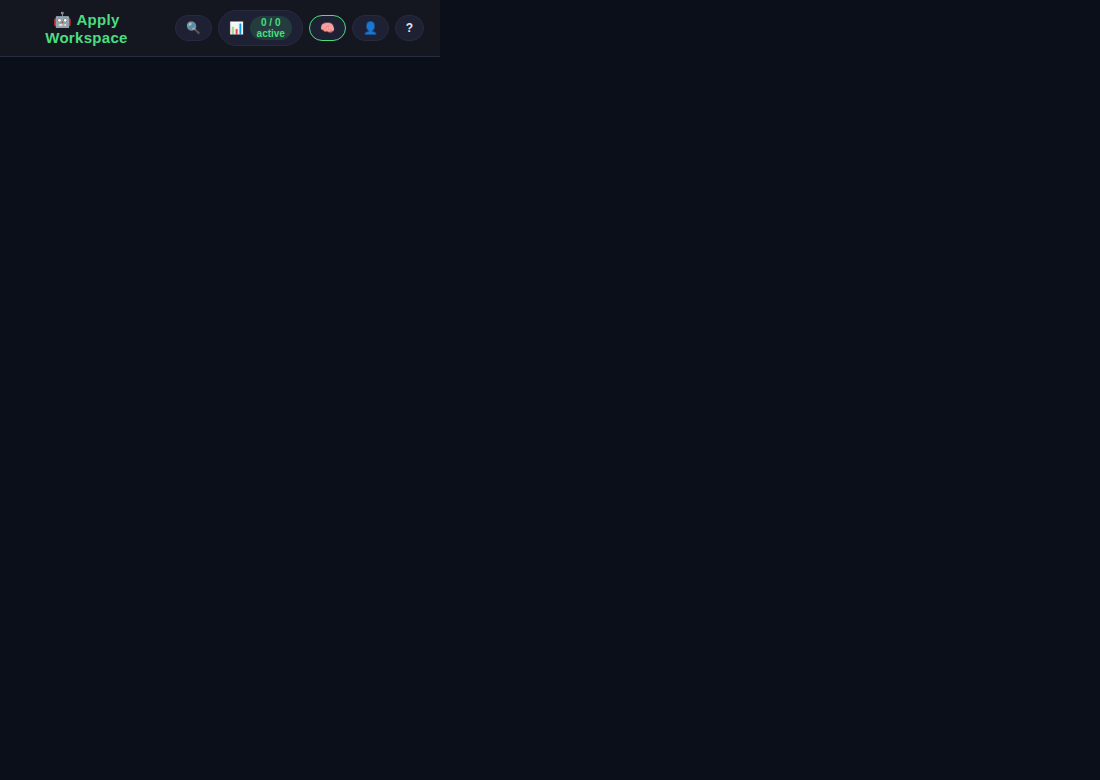
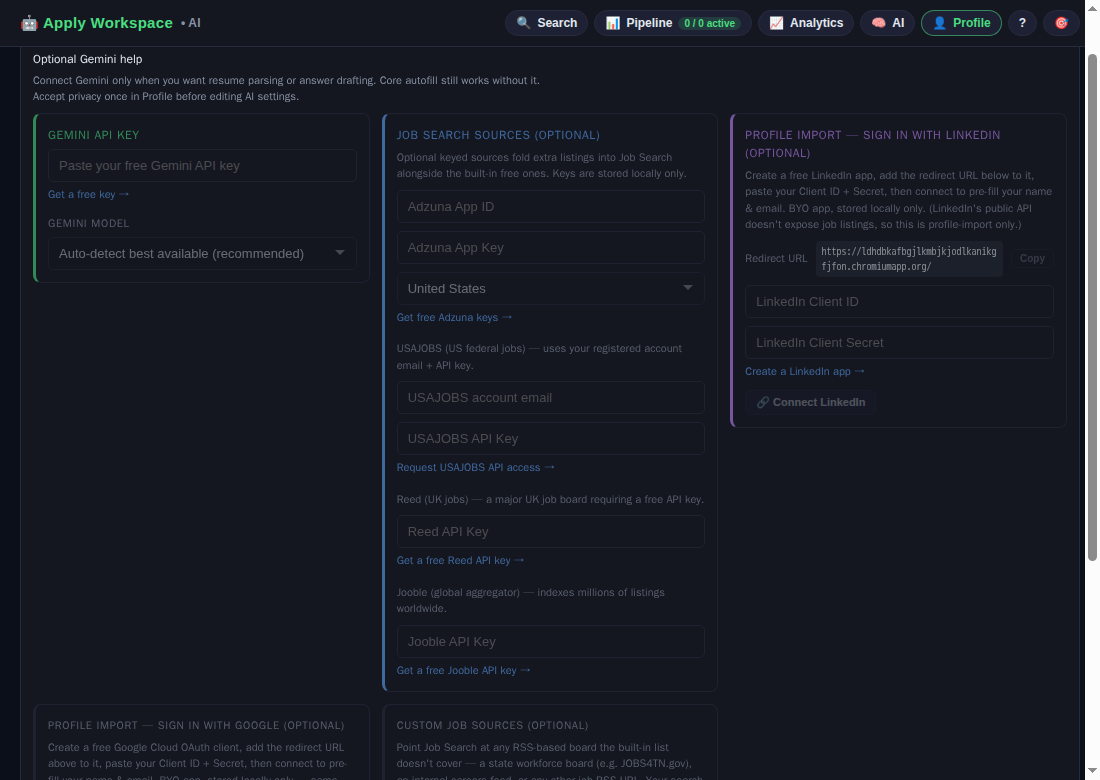
docs: audit pass — sync docs with shipped work, fix repo hygiene issues
- ROADMAP.md / TASKS.md: check off the two shipped items (custom job
  sources, Google OAuth profile import), split the still-open OAuth-for-
  personalized-search and ID.me items into a clearly-scoped 2027 Q1 writeup
  explaining why each is blocked (no partner API / needs its own design
  pass) rather than half-building them.
- FEATURES.md / README.md: correct stale job-source counts (15→16 built-in
  + custom), stale unit test count (77→106), document Google OAuth import
  and custom RSS sources, add missing Indeed/Hackajob source docs.
- docs/PRIVACY.md + in-app Help panel (popup.html): both were out of date
  even before this cycle — "what leaves your device" only mentioned
  Gemini, missing every job-search source and the LinkedIn OAuth flow that
  already shipped. Brought both in sync with actual data flows, including
  this cycle's additions.
- METRICS.md: replaced stale/estimated numbers with this cycle's real
  Docker validation run (106 unit tests, 89.66%/66.89%/86.24% coverage,
  14/14 e2e) and real `gh` data for Open Issues / PR Turnaround (previously
  "unknown").
- CHANGELOG.md: backfilled entries for interview prep, analytics panel,
  Hackajob integration, and storage-gap fixes that shipped without a
  changelog entry over the last few PRs.
- .github/copilot-instructions.md: was boilerplate describing a `src/`/
  `test/` layout this repo has never had; rewritten to describe the actual
[…]

diff --git a/popup/popup.html b/popup/popup.html
@@ -725,7 +725,7 @@
           <ul class="legal-list">
             <li><strong>Review before you submit.</strong> The extension only drafts and fills fields. It never submits an application for you — you review every field and click submit yourself.</li>
             <li><strong>You are responsible for accuracy.</strong> Auto-filled and AI-drafted answers are suggestions. You are solely responsible for the truthfulness and content of anything you submit to an employer.</li>
-            <li><strong>Bring your own key (BYOK).</strong> Optional AI features run through <em>your own</em> Google Gemini API key. Your use of Gemini is governed by Google's terms, not ours.</li>
+            <li><strong>Bring your own key (BYOK).</strong> Optional AI features run through <em>your own</em> Google Gemini API key; optional extra job sources (Adzuna, USAJOBS, Reed, Jooble, and any custom RSS source you add) and the optional LinkedIn/Google profile import run through your own credentials. Your use of those third-party services is governed by their terms, not ours.</li>
             <li><strong>No warranty.</strong> The extension is provided "as is", without warranty of any kind. To the maximum extent permitted by law, the authors are not liable for any damages, lost opportunities, or rejected applications arising from its use.</li>
             <li><strong>Acceptable use.</strong> Don't use the extension to submit fraudulent applications or to violate the terms of any job board or ATS.</li>
             <li><strong>Open source.</strong> The extension is distributed under its repository license; that license governs the software itself.</li>
@@ -736,10 +736,10 @@
           <h3>Privacy Policy</h3>
           <p class="help-lead"><strong>We run no servers and operate no backend.</strong> There is no Apply Workspace account, and your data is never sent to us — we have no way to receive, store, or see it.</p>
           <ul class="legal-list">
-            <li><strong>What is stored, and where.</strong> Your profile, resume preview, saved answer defaults ("memory"), application tracker, settings, and your Gemini API key are stored only in your browser's local extension storage (<code>chrome.storage.local</code>) on this device/profile. Nothing syncs to the cloud.</li>
-            <li><strong>What leaves your device.</strong> Data leaves only when you trigger an optional AI action (resume parsing or answer drafting). In that case the relevant text is sent <em>directly from your browser</em> to Google's Gemini API using your own key, solely to fulfill that request. Without a key, autofill is fully on-device and sends nothing.</li>
+            <li><strong>What is stored, and where.</strong> Your profile, resume preview, saved answer defaults ("memory"), application tracker, settings, and any keys/credentials you add are stored only in your browser's local extension storage (<code>chrome.storage.local</code>) on this device/profile. Nothing syncs to the cloud.</li>
+            <li><strong>What leaves your device.</strong> Data leaves only when you trigger an optional network action: AI help (resume parsing, answer drafting, JD summarize/clean-up) sends the relevant text <em>directly from your browser</em> to Google's Gemini API using your own key; Job Search sends your search query to whichever sources you have enabled (keyless boards, your keyed sources, or any custom RSS source you've added); LinkedIn/Google profile import sends an OAuth handshake to that provider using your own app credentials. Without a Gemini key, autofill is fully on-device and sends nothing.</li>
             <li><strong>Sensitive / demographic fields</strong> (race, gender, veteran, disability) are opt-in, stored locally only, and are never included in AI requests.</li>
-            <li><strong>Third parties.</strong> The only third party that can receive your data is Google (Gemini), and only for requests you initiate with your own key.</li>
+            <li><strong>Third parties.</strong> Only the services above can receive your data, and only for requests you explicitly initiate with your own credentials.</li>
             <li><strong>No tracking.</strong> No analytics, advertising, tracking, or telemetry of any kind.</li>
           </ul>
         </div>

diff --git a/.github/copilot-instructions.md b/.github/copilot-instructions.md
@@ -4,60 +4,66 @@ This file provides custom instructions to GitHub Copilot when working in this re
 
 ## Project Context
 
-**Project Name:** auto-apply-plugin  
-**Description:** A JavaScript plugin designed for automated job application via specific configurations or actions on an ATS form.
-**Tech Stack:** JavaScript, Node.js (for tooling)
-**Outcome:** Chrome plugin that applies to jobs for you
+**Project Name:** auto-apply-plugin (product name: "Apply Workspace")
+**Description:** A local-first Chrome MV3 extension that stores a candidate's profile locally, reads job descriptions, drafts tailored answers with the user's own Gemini API key, and fills application forms — always leaving submission to the user.
+**Tech Stack:** Vanilla JavaScript (ES modules), Chrome MV3 APIs, Gemini 2.5 REST API. No build step, no framework, no bundler for the extension itself.
+**Testing:** Node's built-in test runner (`node --test`) for unit tests, Playwright for e2e/a11y. All checks run via Docker — see `Dockerfile` / `config/docker-compose.yml`.
 
 ## Code Style & Conventions
 
 ### General Guidelines
 
-- Follow existing code patterns and file structure.
-- Maintain consistent naming conventions across the codebase (e.g., `camelCase` for variables and functions, `PascalCase` for classes/constructors).
+- Follow existing code patterns and file structure — this is a no-build-step extension, so files run as-authored in the browser.
+- Maintain consistent naming conventions across the codebase (e.g., `camelCase` for variables and functions).
 - Write self-documenting code with clear variable and function names.
-- Add comments only when the code's intent is not immediately clear or for complex algorithms (use JSDoc for public API functions).
-- Adhere to ESLint rules defined in the project.
+- Add comments only when the code's intent is not immediately clear or for complex algorithms (use JSDoc for public functions, especially in `lib/`).
+- Adhere to the ESLint rules in `config/eslint.config.mjs` (`npm run lint`, zero warnings allowed).
 
 ### Language-Specific Guidelines
 
--   **JavaScript**:
-    -   Use ESNext features (`const`, `let`, arrow functions, async/await).
-    -   Prefer `const` over `let` when a variable is not reassigned. Avoid `var`.
-    -   Use JSDoc for documenting functions, parameters, and return types, especially for public-facing API.
-    -   Prefer pure functions where possible, minimizing side effects.
-    -   Handle asynchronous operations with `async/await` and proper `try/catch` blocks.
+- **JavaScript**:
+  - Use ESNext features (`const`, `let`, arrow functions, async/await, ES modules).
+  - Prefer `const` over `let` when a variable is not reassigned. Avoid `var`.
+  - Use JSDoc for documenting functions, parameters, and return types, especially for exported `lib/` functions.
+  - Prefer pure functions in `lib/` where possible, minimizing side effects — this is what keeps them unit-testable without a browser.
+  - Handle asynchronous operations with `async/await` and proper `try/catch` blocks.
 
 ### File Organization
 
--   Source code resides in the `src/` directory.
--   Build output (if any) goes into `dist/`.
--   Tests are located in the `test/` directory, mirroring the `src/` structure.
--   Keep files focused on a single responsibility.
--   Use `index.js` for barrel exports where appropriate within modules.
+Actual layout (see `README.md` → Project Structure for the full breakdown):
+
+- `manifest.json` — Chrome MV3 manifest.
+- `popup/` — extension popup UI (HTML/CSS/JS), organized by feature area (`ai/`, `ats/`, `forms/`, `search/`, `tracker/`, `ux/`, `analytics/`).
+- `content/` — content scripts that run on job pages (JD extraction, form filling, ATS detection).
+- `background/` — MV3 service worker (`service-worker.js`) plus `modules/handlers/` for per-domain message handlers.
+- `lib/` — shared, browser-independent logic (Gemini wrapper, job search source registry, OAuth, tracker storage, resume/JD parsing). This is where most pure-function unit-test coverage lives.
+- `data/` — static data (e.g. `field-map.json`).
+- `tests/*.test.mjs` — unit tests (Node test runner), mirroring `lib/`. `tests/e2e/*.spec.mjs` — Playwright e2e + a11y specs.
+- Keep files focused on a single responsibility; prefer small modules over growing one file indefinitely (see the background service-worker's `modules/handlers/` split for the pattern).
 
 ## Architecture Patterns
 
 ### Module Structure
 
--   Keep modules small, focused, and reusable.
--   Each module should ideally export a single primary function or object.
--   Minimize inter-module dependencies; prefer explicit imports.
+- Keep modules small, focused, and reusable.
+- Business logic that doesn't need `chrome.*` APIs or the DOM belongs in `lib/` so it can be unit-tested directly with Node's test runner.
+- Minimize inter-module dependencies; prefer explicit imports.
+- Extensible registries over special-casing: e.g. new job-search sources are added as one entry in `lib/job-search.js`'s `JOB_SOURCES` array, not scattered conditionals.
 
 ### State Management & Side Effects
 
--   If state is necessary, encapsulate it within functions or objects.
--   Be explicit about functions that produce side effects.
--   Handle external interactions (e.g., DOM manipulation, API calls) carefully, separating them from pure logic.
+- All persistent state lives in `chrome.storage.local` (local-first — no accounts, no backend, no sync).
+- Be explicit about functions that produce side effects (storage writes, network calls, DOM mutation) and keep them separate from pure logic in `lib/`.
+- Handle external interactions (DOM manipulation, `fetch`, `chrome.*` APIs) carefully, injecting them (e.g. via a `doFetch`/`ctx` parameter) so the pure logic underneath stays testable.
 
-### Plugin API Design
+### Extension API Design
 
--   Design the plugin's public API to be clear, consistent, and easy to use.
--   Validate all inputs to public functions.
--   Provide sensible default options.
--   Ensure proper error handling and informative error messages for API consumers.
+- Message types between popup/content/background are a flat `type` string dispatch table (see `background/service-worker.js`'s `handleMessage` switch) — follow that pattern for new messages rather than introducing a different routing mechanism.
+- Validate all inputs to public/exported functions; default to safe empty values (`{}`, `[]`, `''`) rather than throwing on missing optional fields.
+- Request only the permissions a feature actually needs. Arbitrary user-supplied URLs (e.g. custom job sources) use `optional_host_permissions` + `chrome.permissions.request()` scoped to that one origin, not a blanket host permission.
 
 ## Testing Strategy
 
--   Write unit tests for all utility functions and core logic (e.g., in `src/utils/`).
--   Write integration tests for the main plugin
+- Write unit tests for all new `lib/` functions in `tests/<module>.test.mjs`, following the existing mock-object style (e.g. a `{ querySelector: (sel) => ... }` stub for DOM-shaped inputs, an injected `fetchImpl` for network calls).
+- Write/extend Playwright specs in `tests/e2e/` for anything that changes popup/options UI, including an a11y check (`tests/e2e/a11y.spec.mjs`) for new panels.
+- Run everything via Docker — `docker compose -f config/docker-compose.yml run --rm test|lint|coverage|e2e` — never assume a local Node/Playwright install.

diff --git a/ROADMAP.md b/ROADMAP.md
@@ -1,5 +1,5 @@
 ---
-updated: 2026-08-28
+updated: 2026-09-02
 ---
 
 # Roadmap
@@ -21,15 +21,18 @@ updated: 2026-08-28
 ## 2026 Q4 (In Progress)
 
 - [x] Begin to implement job search results by scraping and searching multiple job pages, starting with LinkedIn and Indeed, etc. and then expanding to a more general multi-site search and alerting capability.
-- [ ] Explore optional identity-provider imports (Google, ID.me, etc.) for bootstrapping profile data without breaking local-first/privacy guarantees. But also for email/etc. auto-fill in the tracker and potential future job-board integrations.
+- [x] Explore optional identity-provider imports (Google, ID.me, etc.) for bootstrapping profile data without breaking local-first/privacy guarantees. But also for email/etc. auto-fill in the tracker and potential future job-board integrations.
+  - Shipped Google as a second BYO-OAuth profile-import provider (2026-09-02), generalizing the existing LinkedIn OIDC flow (`lib/oauth.js`, `chrome.identity.launchWebAuthFlow`) — same BYO-app, local-first, consent-based pattern. ID.me deliberately scoped out of this pass: it's a government identity-verification service (KYC-style flows, not a standard consumer OIDC exchange) and doesn't fit the same generalization — see 2027 Q1 below.
 - [x] Revisit deeper job-fit scoring, verdict assistance, and richer tracker analytics after the storage and review foundations are stable.
 - [x] Run a lightweight `axe` / accessibility audit on popup navigation, labels, contrast, and keyboard flow as the workspace UI settles.
 - [x] **Interview prep mode** — from a saved tracker card, generate a Gemini-backed set of likely behavioral and technical questions tailored to the JD and the user's stored profile, with suggested answer structures pre-filled from memory. Keeps interview prep local-first and zero-upload.
 - [x] **Application analytics panel** — surface aggregate stats from tracker data: response-rate by source, salary-range effectiveness, and time-to-first-response distribution; gives signal on which boards and bid ranges are yielding callbacks without any external telemetry (PR #57). Required closing two storage gaps first: `job.source` was silently dropped on save, and no first-response timestamp existed, so historical response-time data is approximate.
+- [x] **User-configured job sources** — add any RSS-based job board (state workforce boards like JOBS4TN.gov, internal careers feeds, niche boards) from the AI settings panel; merges into the existing plug-and-play source registry so custom sources get filter chips, dedupe, and pay filtering automatically. Requests one-time per-origin permission via `chrome.permissions.request()` rather than broadening default host permissions (2026-09-02).
 
 ## 2027 Q1 (Proposed)
 
-- [ ] Optional identity-provider imports carried forward from Q4 (still open — see TASKS.md).
+- [ ] **OAuth / sign-in for personalized job search** — carried forward from TASKS.md P1. Distinct from the profile-import OAuth above: this means a job board authenticating the user to return *personalized* search results or recommendations (not just "who is this person"). Blocked on a partner-tier API — LinkedIn's job-search API is enterprise-partner-gated (confirmed while building the LinkedIn profile-import flow), Indeed's public Publisher API doesn't offer per-user personalization, and no other currently-integrated board exposes a consumer OAuth job-search endpoint. A local-first, no-backend extension can't broker this without a board that offers it; revisit if/when a partner API becomes available. In the meantime, the multi-source keyless/keyed search plus this cycle's custom-RSS-source feature cover the discovery need generally.
+- [ ] **ID.me identity import** — split out of the "identity-provider imports" item above (Google shipped 2026-09-02). ID.me is an identity-verification/KYC service rather than a standard consumer OIDC provider, so it needs its own design pass (different consent language, different data returned, different trust model) rather than reusing the Google/LinkedIn BYO-OAuth generalization as-is.
 - [ ] **Analytics-informed apply suggestions** — new idea (2026-08-28): once analytics has enough history, surface a one-line nudge on the tracker card itself ("boards like this one respond 2x more often") rather than requiring a trip to the analytics panel. Reuses the same aggregation the panel already computes.
 - [ ] **Response-time accuracy follow-up** — the analytics panel's historical response-time figures are approximate for applications logged before the first-response timestamp existed; consider a one-time backfill pass using each application's stored status-change log where available, or an explicit "approximate" badge on entries predating a chosen cutoff date so the panel doesn't imply more precision than the data supports.
 

diff --git a/README.md b/README.md
@@ -71,7 +71,7 @@ apply-workspace/
 │   ├── jd-parser.js       # JD extraction helpers
 │   ├── form-filler.js     # Shared form-fill logic (lib copy)
 │   ├── job-search.js      # Multi-source job search registry
-│   ├── oauth.js           # LinkedIn OAuth / OIDC flow
+│   ├── oauth.js           # LinkedIn + Google OAuth / OIDC flows
 │   ├── tracker.js         # Application tracking storage
 │   └── utils.js           # Shared lib utilities
 ├── data/
@@ -100,7 +100,7 @@ apply-workspace/
 ## Screenshots
 
 > Maintenance note: after any significant popup, tracker, or profile UI update, regenerate these images so the README stays current.
-> Last refreshed: 2026-06-28 (manual QA closeout)
+> Last refreshed: 2026-09-02 (Google OAuth + custom job sources panels added to AI settings)
 
 ### Main dashboard
 
@@ -118,7 +118,7 @@ apply-workspace/
 
 ## Job Search
 
-Click **🔍 Search** in the header to open the job search panel. Results are pulled from up to **14 sources** and deduplicated automatically.
+Click **🔍 Search** in the header to open the job search panel. Results are pulled from up to **16 built-in sources** (plus any custom RSS sources you add) and deduplicated automatically.
 
 ### Keyless sources (always on)
 
@@ -134,6 +134,13 @@ Click **🔍 Search** in the header to open the job search panel. Results are pu
 | We Work Remotely | Large curated remote jobs board |
 | remote.co | Vetted remote positions across categories |
 
+### Always-available sources (no key or session needed)
+
+| Source | Coverage |
+|--------|----------|
+| Indeed | RSS-based search across Indeed's listings |
+| Hackajob | Tech-focused UK/EU roles, scraped from the public sitemap + job-posting metadata |
+
 ### Session-based sources (active when you're signed in)
 
 | Source | How it works |
@@ -148,6 +155,10 @@ Click **🔍 Search** in the header to open the job search panel. Results are pu
 | USAJOBS | All US federal government positions | [developer.usajobs.gov](https://developer.usajobs.gov/apirequest/) |
 | Reed | Major UK job board | [reed.co.uk/developers](https://www.reed.co.uk/developers/jobseeker) |
 | Jooble | Global aggregator (190+ countries) | [jooble.org/api/about](https://jooble.org/api/about) |
+
+### Custom job sources (bring your own RSS feed)
+
+Add any RSS-based job board from **AI settings → Custom job sources** — a state workforce board (e.g. [JOBS4TN.gov](https://www.jobs4tn.gov/)), an internal careers feed, or any niche board with an RSS endpoint. Your search terms are appended as a `?q=` param when the feed doesn't already encode a query. The extension asks for one-time permission to read that specific site rather than requesting broad site access up front.
 
 ### Filters
 
@@ -232,7 +243,7 @@ Company,Role Title,Status,Date,Employment Type,Remote,Location,Pay Min,Pay Max,S
 ## Privacy
 
 - Your resume and API key are stored **only** in your local browser storage.
-- External network calls happen **only** for actions you trigger (AI help with your Gemini key; optional job-search sources / LinkedIn profile import with your own credentials).
+- External network calls happen **only** for actions you trigger (AI help with your Gemini key; optional job-search sources including any custom RSS source you add / LinkedIn or Google profile import with your own OAuth credentials).
 - No servers, no accounts, no telemetry.
 
 See **[docs/PRIVACY.md](docs/PRIVACY.md)** for the full Terms of Use (EULA), Privacy Policy, Security posture, and your GDPR/CCPA data rights — the same content shown in the app's **Help & privacy** panel.
@@ -244,7 +255,7 @@ See **[docs/PRIVACY.md](docs/PRIVACY.md)** for the full Terms of Use (EULA), Pri
 All checks run via Docker — no local Node.js required.
 
 ```bash
-# Unit tests (77 unit tests + 13 Playwright e2e, no browser needed for unit)
+# Unit tests (106 unit tests + 14 Playwright e2e, no browser needed for unit)
 docker compose -f config/docker-compose.yml run --rm test
 
 # Lint

diff --git a/docs/PRIVACY.md b/docs/PRIVACY.md
@@ -1,7 +1,7 @@
 # Apply Workspace — Terms, Privacy & Security
 
-**Document version:** 1.0
-**Last updated:** May 31, 2026
+**Document version:** 1.1
+**Last updated:** September 2, 2026
 **Applies to:** the Apply Workspace browser extension ("the extension") in this repository.
 
 This is the canonical, public statement of the extension's Terms of Use (EULA),
@@ -37,9 +37,10 @@ By accepting consent in the extension, you agree to the following:
    suggestions. You are solely responsible for the truthfulness and content of
    anything you submit to an employer.
 3. **Bring your own key (BYOK).** Optional AI features run through your own
-   Google Gemini API key; optional extra job sources (Adzuna, USAJOBS) and the
-   optional LinkedIn profile import run through your own credentials. Your use of
-   those third-party services is governed by their terms, not ours.
+   Google Gemini API key; optional extra job sources (Adzuna, USAJOBS, Reed,
+   Jooble, and any custom RSS source you add) and the optional LinkedIn/Google
+   profile import run through your own credentials. Your use of those
+   third-party services is governed by their terms, not ours.
 4. **No warranty.** The extension is provided "as is", without warranty of any
    kind, express or implied. To the maximum extent permitted by law, the authors
    are not liable for any damages, lost opportunities, or rejected applications
@@ -77,8 +78,10 @@ Data leaves your device **only** when *you* trigger an optional network action:
 | Action | Destination | Sent | Auth |
 | --- | --- | --- | --- |
 | Resume parsing / answer drafting / summarize | Google Gemini API | the relevant resume/JD/answer text | your Gemini key |
-| Job search | Remotive, Arbeitnow, The Muse (keyless); Adzuna, USAJOBS (your keys) | your search query | your keys where applicable |
-| LinkedIn profile import (optional) | LinkedIn OAuth/OIDC | OAuth handshake | your LinkedIn app + your sign-in |
+| Job search | Nine keyless boards (Remotive, Arbeitnow, The Muse, Remote OK, Jobicy, Working Nomads, HN Who's Hiring, We Work Remotely, remote.co); Indeed and Hackajob (no key); Adzuna, USAJOBS, Reed, Jooble (your keys); any custom RSS source you add | your search query | your keys where applicable |
+| LinkedIn session job search (optional) | LinkedIn Voyager API | your search query, via your active browser session | your existing LinkedIn sign-in |
+| LinkedIn / Google profile import (optional) | LinkedIn or Google OAuth/OIDC | OAuth handshake | your own app credentials + your sign-in |
+| Custom job source fetch (optional) | whatever URL you add | your search query (appended as a param when the feed doesn't already encode one) | none — a one-time browser permission prompt scoped to that site |
 
 Without a Gemini key, autofill still works fully using deterministic, on-device
 logic and sends nothing anywhere. Each request sends only what is needed to
@@ -105,7 +108,10 @@ any kind.
 - **Credentials:** API keys and OAuth client secrets are stored locally and used
   only to authenticate the requests you trigger. They are never sent to us.
 - **Permissions:** the extension requests only the host permissions needed to
-  read job pages, fill forms, and reach the optional APIs you enable.
+  read job pages, fill forms, and reach the optional APIs you enable. Adding a
+  custom job source asks for a one-time, one-site permission (via the
+  browser's own permission prompt) scoped to just that source's domain,
+  instead of requesting broad access to all sites up front.
 - **No remote code:** the extension does not load or execute remote code.
 - **Reporting:** see [`SECURITY.md`](SECURITY.md) for how to report a
   vulnerability.

diff --git a/FEATURES.md b/FEATURES.md
@@ -50,6 +50,7 @@ Designed so the user stays in control of all data without relying on any externa
 ### 🔗 Profile Import
 
 - **LinkedIn OAuth Import**: BYO LinkedIn app Client ID/Secret; launches OIDC sign-in to pre-fill name and email into the profile (local-only, consent-based)
+- **Google OAuth Import**: BYO Google Cloud OAuth Client ID/Secret; same local-only, consent-based OIDC sign-in flow as LinkedIn, pre-fills name and email
 - **Resume Upload**: Supports PDF, DOCX, and plain-text paste; parsed locally via Gemini if a key is present
 - **CSV Tracker Import**: Import past applications from any spreadsheet export using flexible header matching
 - **LinkedIn Session Scraping**: When signed into LinkedIn in any browser tab, the extension can search LinkedIn Jobs via the Voyager API using your active session — no separate API key needed
@@ -58,13 +59,14 @@ Designed so the user stays in control of all data without relying on any externa
 
 Aggregates listings from multiple job boards in one panel so you can discover, filter, and save jobs without leaving the extension.
 
-- **15 Job Sources**: Nine keyless boards active by default (Remotive, Arbeitnow, The Muse, Remote OK, Jobicy, Working Nomads, HN Who's Hiring, We Work Remotely, remote.co); four BYOK keyed sources (Adzuna, USAJOBS, Reed, Jooble); Indeed (RSS-based, always available); LinkedIn session source (active when signed into LinkedIn in any tab)
+- **16 Built-in Job Sources**: Nine keyless boards active by default (Remotive, Arbeitnow, The Muse, Remote OK, Jobicy, Working Nomads, HN Who's Hiring, We Work Remotely, remote.co); four BYOK keyed sources (Adzuna, USAJOBS, Reed, Jooble); Indeed and Hackajob (always available, no key); LinkedIn session source (active when signed into LinkedIn in any tab)
+- **Custom RSS Job Sources**: Add any RSS-based board the built-in list doesn't cover — state workforce boards (e.g. JOBS4TN.gov), internal careers feeds, niche boards — from the AI settings panel. Merges into the same registry as built-in sources, so custom boards get filter chips, dedupe, and pay filtering automatically. Adding one requests one-time permission to read that origin rather than broadening the extension's default site access.
 - **Source Confidence Hints**: Each search result card shows a confidence indicator reflecting the reliability and data completeness of its source board; helps prioritize high-signal listings at a glance
 - **Per-Source Filter Chips**: Toggle individual sources on/off; locked chips route to the AI settings panel to configure keys
 - **Pay Filter with Hide-Unknown Toggle**: Annual/hourly dual-slider with an explicit checkbox to hide jobs without a published salary range
 - **Remote, Type, and Location Filters**: Narrow results by work mode, employment type, and region (USA / Europe / Remote / Other)
 - **One-Click Save to Tracker**: Captures any result directly into the application pipeline as a draft with title, company, salary, and description
-- **Plug-and-Play Source Registry**: New boards added in `lib/job-search.js` by appending a single registry entry; no other plumbing required
+- **Plug-and-Play Source Registry**: New built-in boards added in `lib/job-search.js` by appending a single registry entry; no other plumbing required
 
 ### 📊 Application Analytics
 

diff --git a/CHANGELOG.md b/CHANGELOG.md
@@ -7,6 +7,11 @@ and this project adheres to [Semantic Versioning](https://semver.org/spec/v2.0.0
 
 ## [Unreleased]
 ### Added
+- Custom user-configured RSS job sources (state workforce boards, internal careers feeds, etc.), merged into the existing job-source registry with per-origin permission requests (2026-09-02).
+- Google OAuth profile import, generalizing the existing LinkedIn BYO-OAuth flow to a second provider (2026-09-02).
+- Application analytics panel — response rate by source, salary-band effectiveness, and time-to-first-response distribution, computed entirely from local tracker data (PR #57).
+- Interview prep mode — Gemini-backed interview questions and suggested answers generated from a saved tracker card's JD and profile.
+- Hackajob job-search source (sitemap + JSON-LD scraping, no public API available).
 - Tracker module split into focused files under `popup/tracker/` for state, UI, handlers, metadata, and CSV support.
 - CSV import support for tracker history with common header aliases.
 - ATS receiver auto-recovery path that retries content-script injection when no receiver is active.
@@ -16,7 +21,10 @@ and this project adheres to [Semantic Versioning](https://semver.org/spec/v2.0.0
 - Naming/copy pass continues toward Apply Workspace across popup surfaces and docs.
 - Tracker card editing flow improved for URL, location, pay, verdict, and description ergonomics.
 - README gallery screenshots refreshed after popup/tracker/profile UI polish, with manual QA closeout sign-off.
+- Dependabot config now assigns reviewers and groups minor/patch and GitHub Actions updates to reduce PR noise.
 ### Fixed
+- Two tracker storage gaps that limited analytics accuracy: `job.source` was silently dropped on save, and no first-response timestamp existed (added a sticky `first_response_at`).
+- Resume parse feedback, interview prep fallback, tracker card movement, and Hackajob normalization edge cases (PR #60).
 - Status normalization and terminal-stage handling to keep tracker semantics honest.
 - Job detail parsing and filtering behaviors for tracker/search reliability.
 - Runtime wiring regressions in popup/tracker modules through lint/runtime-guard test coverage.

diff --git a/TASKS.md b/TASKS.md
@@ -1,5 +1,5 @@
 ---
-updated: 2026-08-28
+updated: 2026-09-02
 ---
 
 # Tasks
@@ -37,7 +37,9 @@ updated: 2026-08-28
   - Remaining: on-ATS-page detail parsing depth, tracker-side indexing enhancements, OAuth job source once a partner API is available.
 
 - [ ] Plan for future: OAuth or user sign-in for personalized job search (if API supports it).
-- [ ] Plan for future: user-configured job sources like unemployment offices (JOBS4TN.gov) and search criteria.
+  - Deferred to ROADMAP.md 2027 Q1 (2026-09-02): no currently-integrated board exposes a consumer OAuth job-search/personalization API — LinkedIn's is enterprise-partner-gated, Indeed's public API doesn't personalize per-user. This is distinct from OAuth *profile import* (shipped for LinkedIn + Google) and needs a partner API this local-first, no-backend extension doesn't have yet.
+- [x] Plan for future: user-configured job sources like unemployment offices (JOBS4TN.gov) and search criteria.
+  - Progress (2026-09-02): shipped custom RSS job sources — add a name + RSS feed URL from the AI settings panel (`lib/job-search.js`: `normalizeCustomRssJob`, `buildCustomJobSources`), merged into the same registry as built-in boards so they get filter chips, dedupe, and pay filtering for free. Search criteria live in the feed URL itself (most RSS boards accept query params) rather than a separate criteria UI. Fetching an arbitrary user-supplied origin required adding `optional_host_permissions` + a `chrome.permissions.request()` prompt scoped to just that origin, so the extension doesn't need a blanket "read all sites" permission.
 
 #### Acceptance Criteria
 - User can search jobs from multiple sources in one panel.

diff --git a/METRICS.md b/METRICS.md
@@ -8,19 +8,19 @@
 | Build Time    | 3.44s |
 | Bundle Size   | 619.78KB |
 | Test Files    | 13 (9 unit + 4 Playwright e2e) |
-| Test Cases    | 107 (93 unit + 14 Playwright e2e) |
-| Other coverage | 89.66% lines / 67.03% branches / 85.77% functions |
+| Test Cases    | 120 (106 unit + 14 Playwright e2e) |
+| Other coverage | 89.66% lines / 66.89% branches / 86.24% functions |
 
 ## Health
 
 | Metric        | Value  |
 | ------------- | ------ |
-| Open Issues   | unknown |
-| PR Turnaround | unknown |
+| Open Issues   | 0 (gh issue list, 2026-09-02) |
+| PR Turnaround | ~11h avg, last 5 merged PRs (#56–#60, gh pr list, 2026-09-02) |
 | Skipped Tests | 0      |
-| Lint Status   | pass (Docker Node 20 Alpine, `npm run lint`, 2026-05-24) |
-| Latest Validation | Docker Node 20 Alpine + Playwright Noble image: lint pass, `npm test` 93 pass / 0 fail, Playwright 14 pass / 0 fail, `npm run test:coverage` 89.66% lines / 67.03% branches / 85.77% functions (2026-08-27) |
-| Lockfile Sync | pass (`npm ci` succeeds in clean container, 2026-05-24) |
+| Lint Status   | pass (Docker Node 22 Alpine, `npm run lint`, 2026-09-02) |
+| Latest Validation | Docker Node 22 Alpine + Playwright Noble image: lint pass, `npm test` 106 pass / 0 fail, Playwright 14 pass / 0 fail (incl. a11y audits), `npm run test:coverage` 89.66% lines / 66.89% branches / 86.24% functions (2026-09-02) |
+| Lockfile Sync | pass (`npm ci` succeeds in clean container, 2026-09-02) |
 | Health Score  | 92/100 |
 
 
